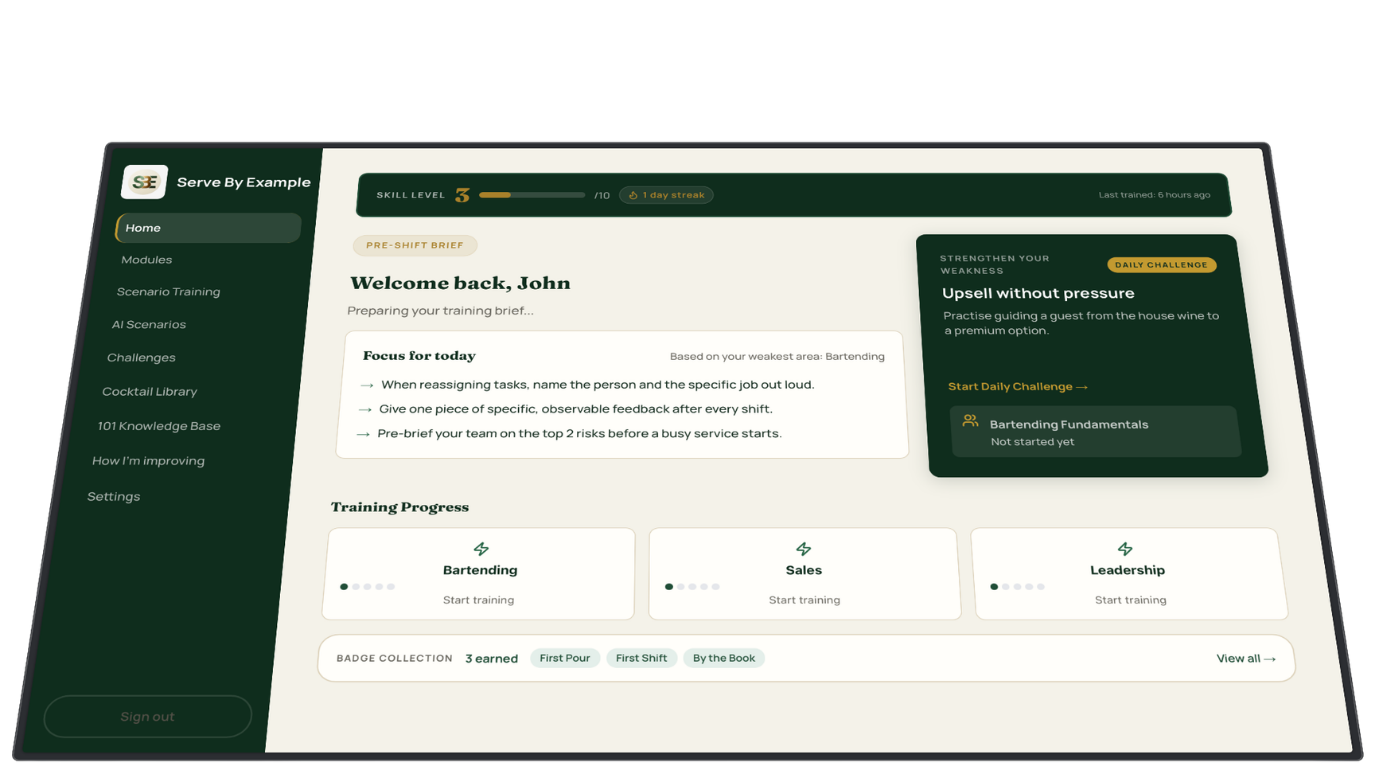
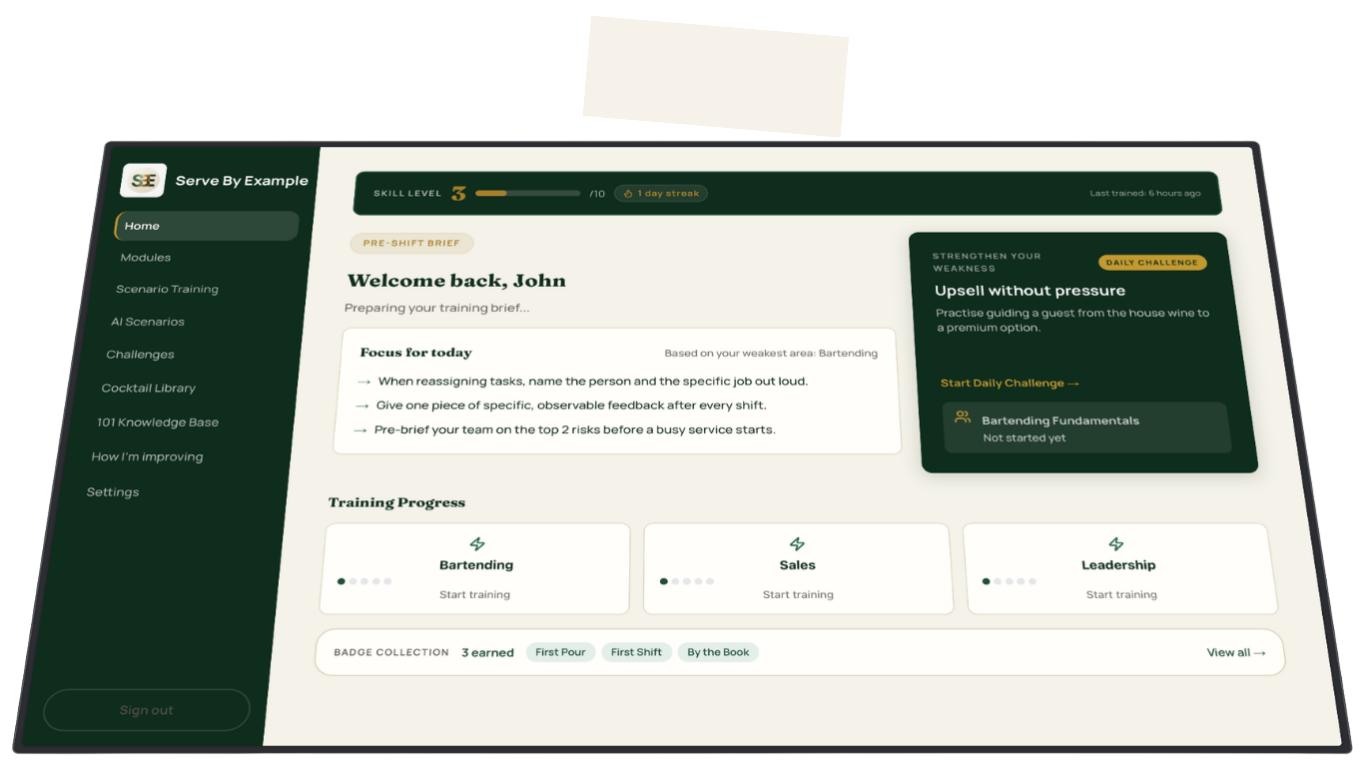
feat: multiple hero + homepage UX fixes
- "How it works" tile now links to /how-it-works page
- Book a Call form POSTs to /api/book-call (Brevo email to info@)
- Blockquote body text in modal now visible (wrapped in <p>, opacity 0.92)
- Remove large SVG quotation mark before founder quote
- Founder quote strip top padding reduced — text closer to hero image
- Sticky mobile bar: removed "No credit card" label
- Mobile: fix section overflow — solution-col clips DashboardMockup
- hero-cta-tile: add text-decoration: none so Link renders cleanly
- Updated 257shots_so.png hero image

diff --git a/app/api/book-call/route.ts b/app/api/book-call/route.ts
@@ -1,0 +1,88 @@
+export async function POST(req: Request) {
+  try {
+    const body = await req.json();
+    const {
+      firstName, lastName, email, phone, company,
+      teamSize, usesTraining, platformName, decisionMaker, intent,
+    } = body;
+
+    if (!firstName?.trim() || !lastName?.trim() || !email?.trim() || !phone?.trim() || !company?.trim()) {
+      return Response.json({ error: "Required fields missing." }, { status: 400 });
+    }
+
+    const emailRegex = /^[^\s@]+@[^\s@]+\.[^\s@]+$/;
+    if (!emailRegex.test(email)) {
+      return Response.json({ error: "Invalid email address." }, { status: 400 });
+    }
+
+    const brevoApiKey = process.env.BREVO_API_KEY;
+    const toEmail = process.env.CONTACT_TO_EMAIL ?? "[email redacted]";
+    const fromEmail = process.env.BREVO_FROM_EMAIL ?? "[email redacted]";
+    const fromName = process.env.BREVO_FROM_NAME ?? "Serve By Example";
+
+    if (!brevoApiKey) {
+      console.error("Book-call API: BREVO_API_KEY not set");
+      return Response.json(
+        { error: "Booking is not configured. Please email us directly at [email redacted]." },
+        { status: 500 },
+      );
+    }
+
+    const row = (label: string, value: string) =>
+      `<tr><td style="padding:10px 0;border-bottom:1px solid #e5e7eb;font-weight:600;width:160px;vertical-align:top">${label}</td><td style="padding:10px 0;border-bottom:1px solid #e5e7eb">${value}</td></tr>`;
+
+    const htmlContent = `
+      <div style="font-family:sans-serif;max-width:640px;margin:0 auto;padding:32px 24px">
+        <h2 style="margin-bottom:8px;color:#0B2B1E">New Book-a-Call Request</h2>
+        <p style="color:#6b7280;margin-top:0">Submitted from the Serve By Example hero booking form.</p>
+        <table style="width:100%;border-collapse:collapse;margin-top:24px">
+          ${row("Name", `${firstName.trim()} ${lastName.trim()}`)}
+          ${row("Email", `<a href="mailto:${email.trim()}">${email.trim()}</a>`)}
+          ${row("Phone", phone.trim())}
+          ${row("Company", company.trim())}
+          ${row("Team size", teamSize || "—")}
+          ${row("Uses training?", usesTraining === "yes" ? `Yes${platformName?.trim() ? ` — ${platformName.trim()}` : ""}` : usesTraining === "no" ? "No" : "—")}
+          ${row("Decision maker?", decisionMaker || "—")}
+        </table>
+        <div style="margin-top:24px;padding:20px;background:#f9fafb;border-radius:8px;border-left:4px solid #0B2B1E">
+          <p style="margin:0;font-weight:600;margin-bottom:8px">What made them book a call</p>
+          <p style="margin:0;line-height:1.65;white-space:pre-wrap">${intent?.trim() || "—"}</p>
+        </div>
+        <p style="margin-top:24px;font-size:13px;color:#9ca3af">Reply directly to this email to respond to ${firstName.trim()}.</p>
+      </div>
+    `;
+
+    const brevoRes = await fetch("https://api.brevo.com/v3/smtp/email", {
+      method: "POST",
+      headers: {
+        "api-key": brevoApiKey,
+        "Content-Type": "application/json",
+        Accept: "application/json",
+      },
+      body: JSON.stringify({
+        sender: { name: fromName, email: fromEmail },
+        to: [{ email: toEmail }],
+        replyTo: { email: email.trim(), name: `${firstName.trim()} ${lastName.trim()}` },
+        subject: `Book-a-call request from ${firstName.trim()} ${lastName.trim()} — ${company.trim()}`,
+        htmlContent,
+      }),
+    });
+
+    if (!brevoRes.ok) {
+      const errText = await brevoRes.text();
+      console.error("Book-call API: Brevo send failed:", brevoRes.status, errText);
+      return Response.json(
+        { error: "Could not send your request. Please email us directly at [email redacted]." },
+        { status: 500 },
+      );
+    }
+
+    return Response.json({ ok: true });
+  } catch (err) {
+    console.error("Book-call API error:", err);
+    return Response.json(
+      { error: "Something went wrong. Please email us directly at [email redacted]." },
+      { status: 500 },
+    );
+  }
+}

diff --git a/components/HeroSection.tsx b/components/HeroSection.tsx
@@ -2,6 +2,7 @@
 
 import { useState, useRef } from 'react';
 import Image from 'next/image';
+import Link from 'next/link';
 import StickyDemoCTA from '@/components/StickyDemoCTA';
 
 
@@ -54,6 +55,8 @@ export default function HeroSection() {
   const [form, setForm] = useState<FormData>(INITIAL_FORM);
   const [errors, setErrors] = useState<FormErrors>({});
   const [submitted, setSubmitted] = useState(false);
+  const [submitting, setSubmitting] = useState(false);
+  const [apiError, setApiError] = useState('');
   const heroRef = useRef<HTMLElement>(null);
 
   function handleField(key: keyof FormData, value: string) {
@@ -61,14 +64,31 @@ export default function HeroSection() {
     if (errors[key]) setErrors(e => ({ ...e, [key]: undefined }));
   }
 
-  function handleSubmit(e: React.FormEvent) {
+  async function handleSubmit(e: React.FormEvent) {
     e.preventDefault();
     const errs = validateForm(form);
     if (Object.keys(errs).length > 0) {
       setErrors(errs);
       return;
     }
-    setSubmitted(true);
+    setSubmitting(true);
+    setApiError('');
+    try {
+      const res = await fetch('/api/book-call', {
+        method: 'POST',
+        headers: { 'Content-Type': 'application/json' },
+        body: JSON.stringify(form),
+      });
+      if (!res.ok) {
+        const data = await res.json().catch(() => ({}));
+        throw new Error(data.error || 'Could not submit. Please email [email redacted].');
+      }
+      setSubmitted(true);
+    } catch (err) {
+      setApiError(err instanceof Error ? err.message : 'Something went wrong. Please try again.');
+    } finally {
+      setSubmitting(false);
+    }
   }
 
   function openModal() {
@@ -76,18 +96,11 @@ export default function HeroSection() {
     setForm(INITIAL_FORM);
     setErrors({});
     setSubmitted(false);
+    setApiError('');
   }
 
   function closeModal() {
     setShowModal(false);
-  }
-
-  function scrollToProductTour() {
-    const el = document.getElementById('product-tour');
-    if (el) {
-      const top = el.getBoundingClientRect().top + window.scrollY - 80;
-      window.scrollTo({ top, behavior: 'smooth' });
-    }
   }
 
   return (
@@ -106,9 +119,9 @@ export default function HeroSection() {
             <button className="hero-cta-tile hero-cta-tile-primary" onClick={openModal}>
               Book a call
             </button>
-            <button className="hero-cta-tile hero-cta-tile-secondary" onClick={scrollToProductTour}>
+            <Link href="/how-it-works" className="hero-cta-tile hero-cta-tile-secondary">
               How it works
-            </button>
+            </Link>
           </div>
 
           <div className="hero-showcase">
@@ -154,7 +167,8 @@ export default function HeroSection() {
                   We&rsquo;ll map out your current staff onboarding layout, look at your venue count, and determine if interactive AI roleplay can realistically drop your training timeline from six months down to six weeks.
                 </p>
                 <blockquote className="book-modal-blockquote">
-                  <strong>Zero fluff. No aggressive sales pitch.</strong> There is absolutely no point walking you through a software console unless it mathematically protects your venue&rsquo;s service margins, fixes consistency issues, and gets your new hires floor-ready before their first real shift.
+                  <strong>Zero fluff. No aggressive sales pitch.</strong>
+                  <p>There is absolutely no point walking you through a software console unless it mathematically protects your venue&rsquo;s service margins, fixes consistency issues, and gets your new hires floor-ready before their first real shift.</p>
                 </blockquote>
               </div>
 
@@ -311,8 +325,9 @@ export default function HeroSection() {
                       {errors.intent && <span className="book-form-error">{errors.intent}</span>}
                     </div>
 
-                    <button type="submit" className="btn btn-primary btn-block">
-                      Book Initial Call
+                    {apiError && <div className="book-form-error" style={{ marginBottom: 8 }}>{apiError}</div>}
+                    <button type="submit" className="btn btn-primary btn-block" disabled={submitting}>
+                      {submitting ? 'Sending...' : 'Book Initial Call'}
                     </button>
                   </form>
                 )}

diff --git a/app/globals.css b/app/globals.css
@@ -11991,6 +11991,19 @@ body {
     gap: 40px;
   }
 
+  .solution-col {
+    overflow: hidden;
+  }
+
+  .solution-col-header > div {
+    min-width: 0;
+  }
+
+  .solution-features li > div {
+    min-width: 0;
+    flex: 1;
+  }
+
   .mastery-steps-flow {
     grid-template-columns: 1fr;
     gap: 12px;
@@ -12855,7 +12868,7 @@ body {
 
 /* ── Founder quote strip (promoted, below hero) ── */
 .founder-quote-strip {
-  padding: 36px 0 44px;
+  padding: 6px 0 36px;
   background: var(--bg);
   border-bottom: 1px solid var(--line-light);
 }
@@ -14721,6 +14734,7 @@ h1, h2, h3 {
   transition: background 0.18s var(--ease-out), box-shadow 0.18s var(--ease-out), transform 0.18s var(--ease-out), border-color 0.18s var(--ease-out), color 0.18s var(--ease-out);
   white-space: nowrap;
   border: none;
+  text-decoration: none;
 }
 
 .hero-cta-tile-primary {
@@ -14900,8 +14914,8 @@ h1, h2, h3 {
 .book-modal-blockquote p {
   font-size: 0.86rem;
   line-height: 1.75;
-  color: rgba(255, 255, 255, 0.65);
-  margin: 0;
+  color: rgba(255, 255, 255, 0.92);
+  margin: 8px 0 0;
 }
 
 .book-modal-right {

diff --git a/app/page.tsx b/app/page.tsx
@@ -175,9 +175,6 @@ export default function Home() {
         <section className="founder-quote-strip">
           <div className="container">
             <blockquote className="founder-quote-inline">
-              <svg className="founder-quote-mark" width="32" height="24" viewBox="0 0 32 24" fill="currentColor" aria-hidden="true">
-                <path d="M0 24V14.4C0 6.4 4.8 1.6 14.4 0l1.6 3.2C10.4 4.8 7.6 8 7.2 12H13.6V24H0ZM18.4 24V14.4C18.4 6.4 23.2 1.6 32 0l1.6 3.2C28 4.8 25.2 8 24.8 12H31.2V24H18.4Z"/>
-              </svg>
               <p>I built the training tool I always wished I had &mdash; one that works for real venues, real staff, and the real pressure of a busy service.</p>
               <footer>Founder, Serve By Example &mdash; 15+ years in Australian hospitality</footer>
             </blockquote>

diff --git a/components/StickyDemoCTA.tsx b/components/StickyDemoCTA.tsx
@@ -31,7 +31,7 @@ export default function StickyDemoCTA({ heroRef }: { heroRef: React.RefObject<HT
   return (
     <div ref={barRef} className="sticky-demo-bar" aria-hidden="true">
       <Link href="/demo" className="btn btn-primary sticky-demo-btn">
-        Try the Demo &nbsp;&middot;&nbsp; No credit card
+        Try the Demo
       </Link>
     </div>
   );